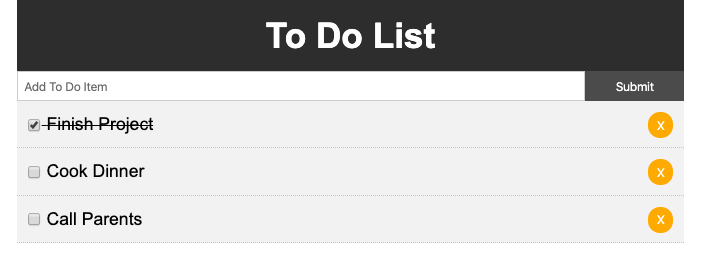
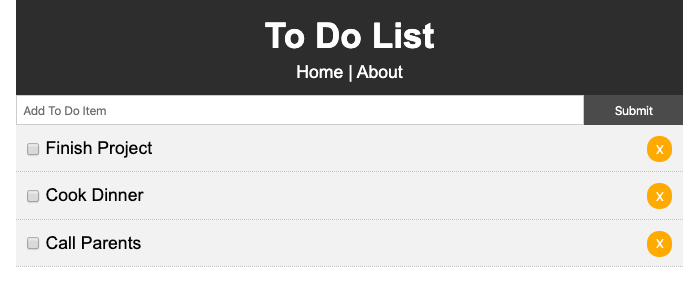
added react-router-dom nav functionality

diff --git a/src/App.js b/src/App.js
@@ -1,8 +1,10 @@
 import React, { Component } from 'react';
+import { BrowserRouter as Router, Route } from 'react-router-dom';
 import Header from './components/layout/Header';
 import './App.css';
 import Todos from './components/todo/Todos';
 import AddTodo from './components/todo/AddTodo';
+import About from './components/pages/About';
 import { v4 as uuidv4 } from 'uuid';
 
 class App extends Component {
@@ -58,17 +60,28 @@ class App extends Component {
 
 	render() {
 		return (
-			<div className="App">
-				<div className="container">
-					<Header />
-					<AddTodo addTodo={this.addTodo} />
-					<Todos
-						todos={this.state.todos}
-						toggleComplete={this.toggleComplete}
-						deleteTodo={this.deleteTodo}
-					/>
+			<Router>
+				<div className="App">
+					<div className="container">
+						<Header />
+						<Route
+							exact
+							path="/"
+							render={(props) => (
+								<React.Fragment>
+									<AddTodo addTodo={this.addTodo} />
+									<Todos
+										todos={this.state.todos}
+										toggleComplete={this.toggleComplete}
+										deleteTodo={this.deleteTodo}
+									/>
+								</React.Fragment>
+							)}
+						/>
+						<Route path="/about" component={About} />
+					</div>
 				</div>
-			</div>
+			</Router>
 		);
 	}
 }

diff --git a/src/components/layout/Header.js b/src/components/layout/Header.js
@@ -1,18 +1,33 @@
 import React from 'react';
+import { Link } from 'react-router-dom';
 
 function Header() {
 	return (
 		<header style={headerStyle}>
 			<h1>To Do List</h1>
+			<Link style={linkStyle} to="/">
+				Home
+			</Link>{' '}
+			|{' '}
+			<Link style={linkStyle} to="/about">
+				About
+			</Link>
 		</header>
 	);
 }
 
+// these can be referred to by className in App.css if desired
 const headerStyle = {
 	background: '#333',
 	color: '#fff',
 	textAlign: 'center',
 	padding: '10px'
+};
+
+const linkStyle = {
+	color: '#fff',
+	textDecoration: 'none',
+	cursor: 'pointer'
 };
 
 export default Header;

diff --git a/src/components/pages/About.js b/src/components/pages/About.js
@@ -1,0 +1,15 @@
+import React from 'react';
+
+function About() {
+	return (
+		<React.Fragment>
+			<h1>About</h1>
+			<p>
+				This is the To Do List app. It is part of a React Crash Course from
+				Traversy Media.
+			</p>
+		</React.Fragment>
+	);
+}
+
+export default About;
